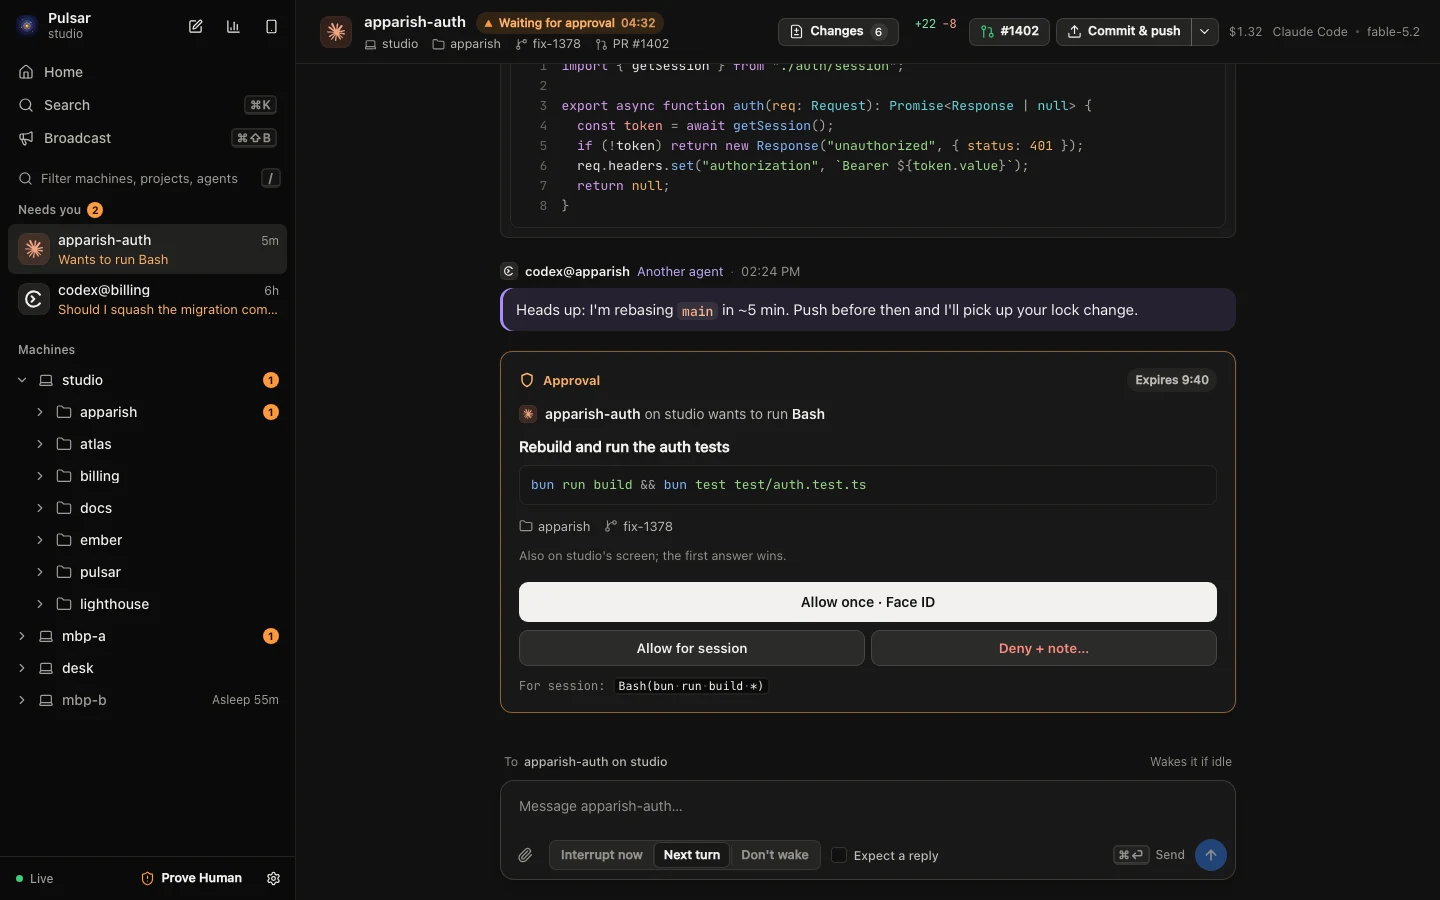
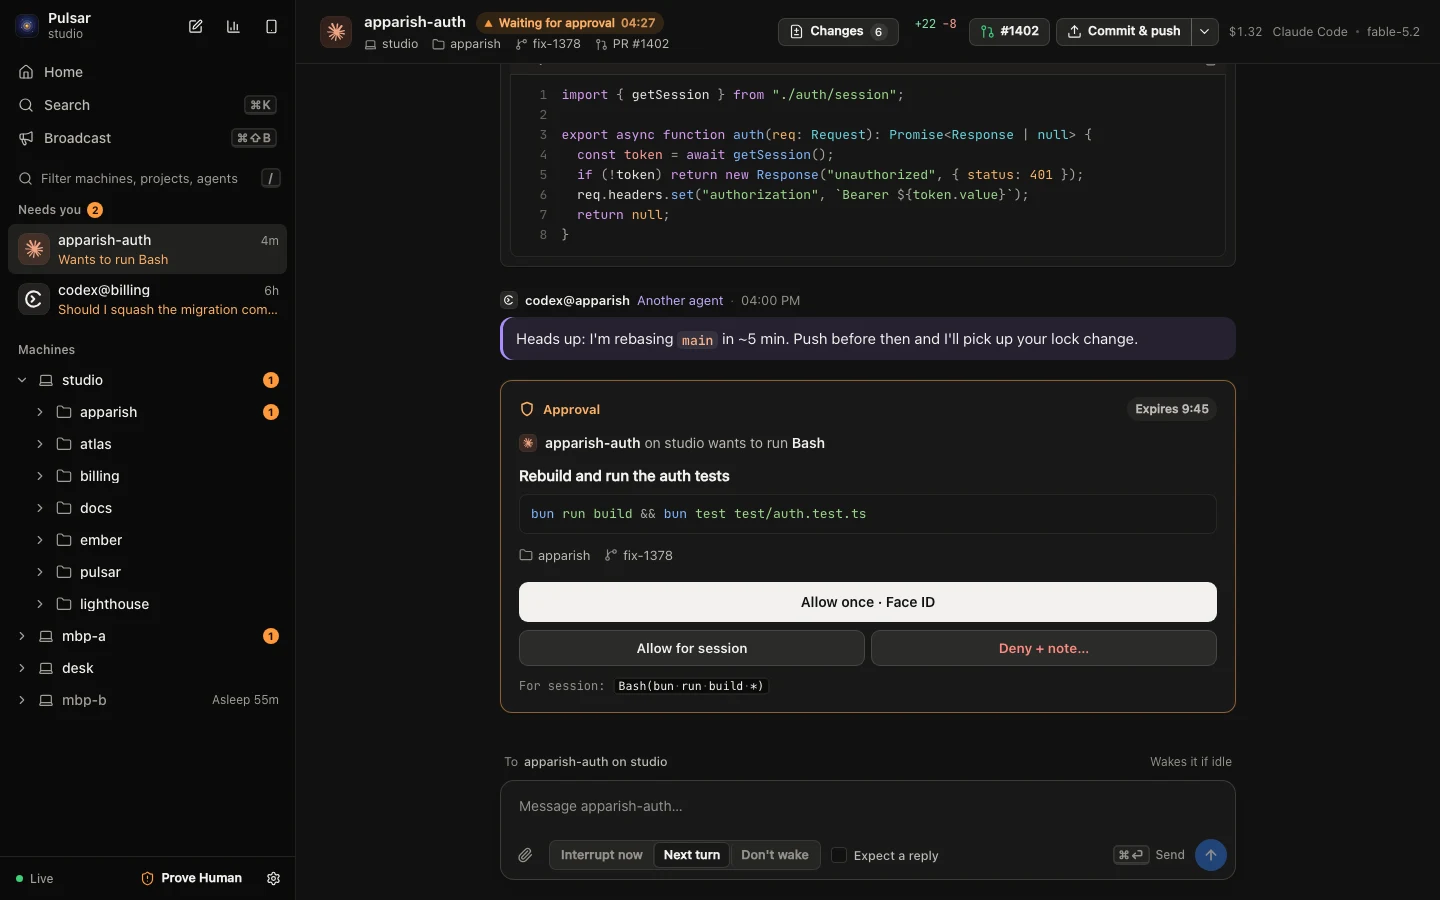
Use Home for the README phone shot and retake the desktop shots
Home shows Needs you and the machines with nothing truncated or
clipped. The desktop shots pick up the shorter approval card.

Changed region(s): [[0.3438, 0.28, 0.875, 0.6222], [0.375, 0.0622, 0.75, 0.2489]]

diff --git a/web/e2e/readme.screens.ts b/web/e2e/readme.screens.ts
@@ -141,20 +141,13 @@ test.describe("readme screens", () => {
 		}
 	});
 
-	test("phone session", async ({ page, request }) => {
+	test("phone home", async ({ page }) => {
 		only("phone");
 		await phoneChrome(page);
 		await faceId(page);
-		// The pending approval, ready for Face ID, at the bottom of the session.
-		const id = await agentId(request, "name=apparish-auth");
+		// Home: Needs you and the machines, with no session chrome to truncate.
 		await home(page);
-		await page.goto(`/#/a/${encodeURIComponent(id)}`);
-		await page.locator(".p-nav-title h1").first().waitFor();
-		await page.getByText("Rebuild and run the auth tests").last().waitFor();
-		await page.waitForTimeout(1500);
-		const jump = page.getByRole("button", { name: "Jump to latest" });
-		if (await jump.isVisible()) await jump.click();
-		await page.waitForTimeout(800);
-		await shot(page, "phone-session");
+		await page.getByText("Needs You").first().waitFor();
+		await shot(page, "phone-home");
 	});
 });

diff --git a/README.md b/README.md
@@ -80,11 +80,11 @@ Machines signed in as you link on their own. There are no pairing codes. `pulsar
 
 Run `pulsar qr` and scan the code with your phone, then add the page to your home screen. On a computer, run `pulsar ui`.
 
-<p align="center"><img src="docs/assets/screenshots/phone-session.webp" alt="Phone: an agent's session with a Bash approval ready to allow with Face ID" width="300"></p>
+<p align="center"><img src="docs/assets/screenshots/phone-home.webp" alt="Phone: the Agents home screen with Needs you (a Bash approval and a question) and the machines with their projects" width="300"></p>
 
 - See every machine, project and agent, with a "Needs you" list.
 - Watch each session live: replies, tool calls, diffs, code and images.
-- Answer permission prompts and questions. The prompt also stays in the terminal, and the first answer wins.
+- Answer permission prompts and questions. The prompt also stays in the terminal.
 - Message one agent or a group. Attach files and images, and mention files with `@`.
 - Stop an agent's turn.
 - Start a new agent on any machine, in a folder or a new git worktree.
